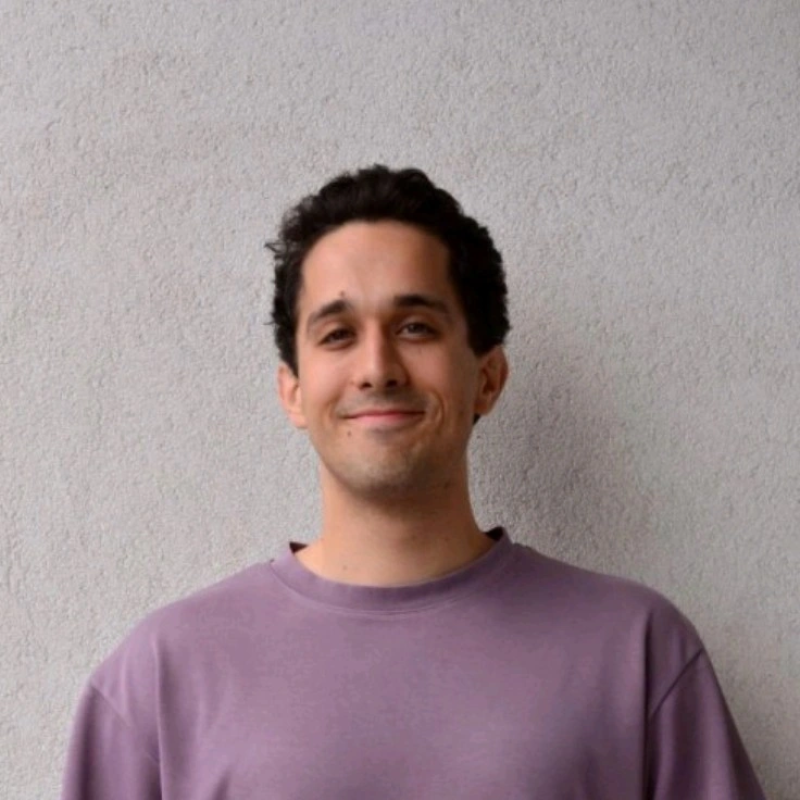
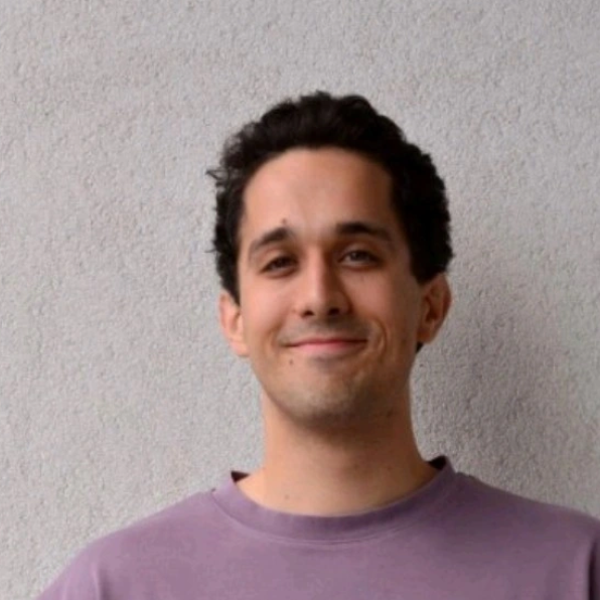
Team photos: zoom Peter/Zlatan/Yordanov to match Radostin; align university chips; trim footer
- Cropped Peter, Zlatan, Yordanov head-and-shoulders to match Radostin's framing

- University chips bottom-aligned across cards (PI badge floated so chips line up)

- Removed the Follow/social block and the GATE (About/Research/Business) footer column; kept Explore

diff --git a/index.html b/index.html
@@ -599,15 +599,6 @@
               1164 Sofia, Bulgaria
             </address>
           </div>
-          <div class="contact__block">
-            <p class="contact__label">Follow</p>
-            <ul class="social">
-              <li><a class="social__link" href="https://www.facebook.com/gateinstitute" aria-label="GATE on Facebook" rel="noopener" target="_blank">Facebook</a></li>
-              <li><a class="social__link" href="https://www.youtube.com/@gateinstitute" aria-label="GATE on YouTube" rel="noopener" target="_blank">YouTube</a></li>
-              <li><a class="social__link" href="https://www.linkedin.com/company/gate-institute/" aria-label="GATE on LinkedIn" rel="noopener" target="_blank">LinkedIn</a></li>
-              <li><a class="social__link" href="https://x.com/gate_institute" aria-label="GATE on X" rel="noopener" target="_blank">X</a></li>
-            </ul>
-          </div>
         </div>
       </div>
     </section>
@@ -626,15 +617,6 @@
           </p>
           <a class="link link--arrow site-footer__parent" href="https://www.gate-ai.eu/" rel="noopener" target="_blank">Part of the GATE Institute</a>
         </div>
-
-        <nav class="site-footer__col" aria-label="GATE">
-          <h4>GATE</h4>
-          <ul>
-            <li><a href="https://www.gate-ai.eu/about/" rel="noopener" target="_blank">About</a></li>
-            <li><a href="https://www.gate-ai.eu/research/" rel="noopener" target="_blank">Research</a></li>
-            <li><a href="https://www.gate-ai.eu/business/" rel="noopener" target="_blank">Business</a></li>
-          </ul>
-        </nav>
 
         <nav class="site-footer__col" aria-label="More from GATE">
           <h4>Explore</h4>

diff --git a/assets/css/styles.css b/assets/css/styles.css
@@ -570,7 +570,7 @@ small, .small { font-size: var(--fs-small); }
   align-items: center;
   text-align: center;
   gap: var(--space-3);
-  padding: var(--space-6) var(--space-5);
+  padding: var(--space-6) var(--space-5) var(--space-7);
   position: relative;
 }
 
@@ -618,12 +618,14 @@ small, .small { font-size: var(--fs-small); }
   padding-top: var(--space-4);
   border-top: 1px solid var(--color-border);
   width: 100%;
+  flex: 1 1 auto;
   display: flex;
   flex-direction: column;
   align-items: center;
   gap: var(--space-3);
 }
 .card--team__bio {
+  flex: 1 1 auto;
   font-size: var(--fs-small);
   line-height: 1.5;
   color: var(--color-muted);
@@ -715,7 +717,11 @@ small, .small { font-size: var(--fs-small); }
   background: rgba(237, 72, 28, 0.10);
   border-radius: var(--radius-pill);
   padding: .25rem .75rem;
-  margin-top: var(--space-4);
+  position: absolute;
+  left: 50%;
+  bottom: var(--space-4);
+  transform: translateX(-50%);
+  margin: 0;
 }
 
 /* ---------------------------------------------------------------------------
@@ -938,7 +944,7 @@ small, .small { font-size: var(--fs-small); }
 
 .site-footer__grid { display: grid; gap: var(--space-6); grid-template-columns: 1fr; }
 @media (min-width: 620px) { .site-footer__grid { grid-template-columns: 1fr 1fr; } }
-@media (min-width: 768px) { .site-footer__grid { grid-template-columns: 1.6fr 1fr 1fr 1.4fr; } }
+@media (min-width: 768px) { .site-footer__grid { grid-template-columns: 1.8fr 1fr 1.4fr; } }
 
 .site-footer__brand img { height: 36px; width: auto; margin-bottom: var(--space-4); }
 .site-footer__blurb { color: #C9CBE0; font-size: var(--fs-small); max-width: 40ch; margin-bottom: 0; }